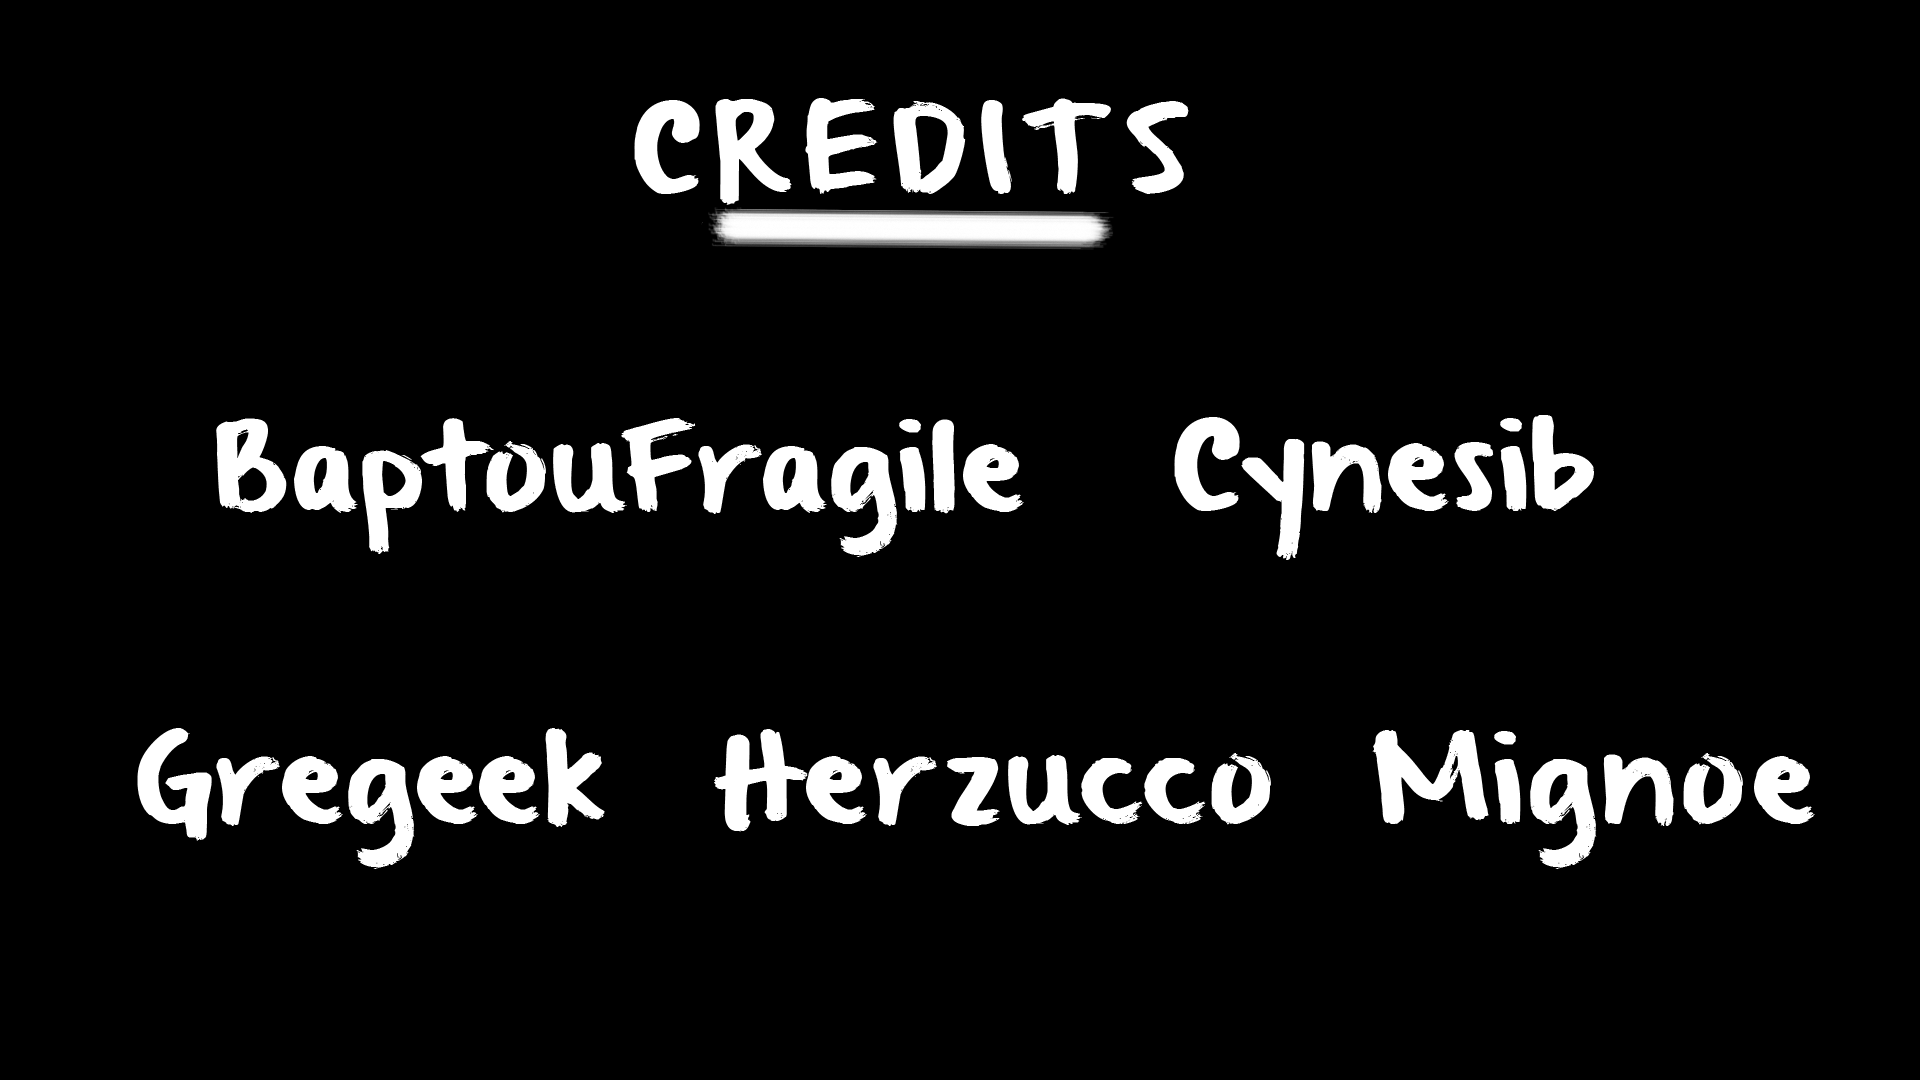
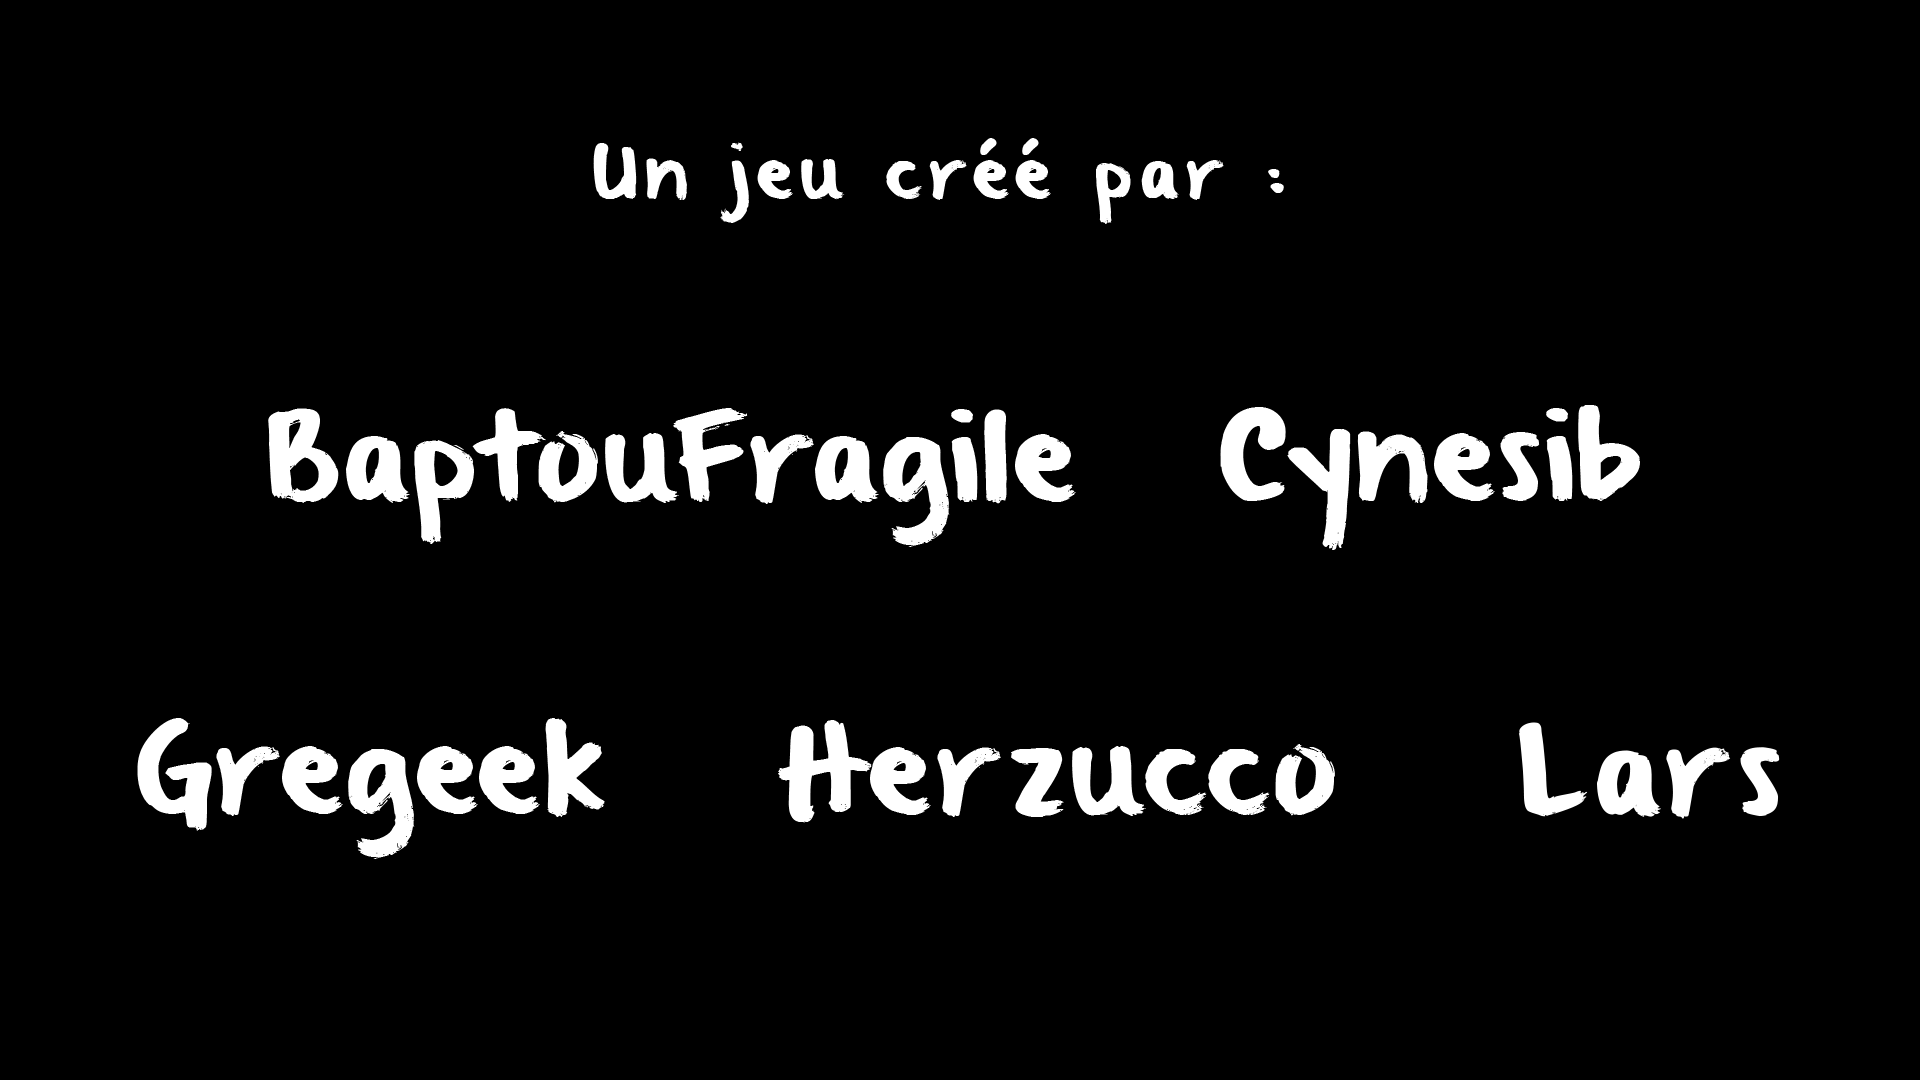
commit

diff --git a/front/src/layouts/credits.js b/front/src/layouts/credits.js
@@ -3,10 +3,23 @@ var Layout = require('./layout');
 function Credits(){
   Layout.call(this);
 
-  this.sprite = game.add.sprite(window.game.world.centerX, window.game.world.centerY, 'credits');
-  this.sprite.anchor.set(0.5, 0.5);
+  this.mode = 'saison';
+  this.count = 5;
+  this.currentCount = 0;
 
-  this.group.add(this.sprite);
+  this.saison = game.add.sprite(window.game.world.centerX, window.game.world.centerY, 'saison');
+  this.saison.anchor.set(0.5, 0.5);
+
+  this.credits = game.add.sprite(window.game.world.centerX, window.game.world.centerY, 'credits');
+  this.credits.anchor.set(0.5, 0.5);
+
+  this.cinqyou = game.add.sprite(window.game.world.centerX, window.game.world.centerY, 'cinqyou');
+  this.cinqyou.anchor.set(0.5, 0.5);
+
+  this.group.add(this.cinqyou);
+  this.group.add(this.credits);
+  this.group.add(this.saison);
+
   var that = this;
   window.game.events.on('credits', function(){
     that.enable();
@@ -17,6 +30,18 @@ Credits.prototype = Object.create(Layout.prototype);
 Credits.prototype.constructor = Credits;
 Credits.prototype.update = function CreditsUpdate(game){
   Layout.prototype.update.call(this, game);
+
+  this.currentCount += 1/60;
+  if(this.currentCount >= this.count){
+    this.currentCount = 0;
+    if(this.mode === 'saison'){
+      this.mode = 'credits';
+      this.saison.visible = false;
+    }else if(this.mode === 'credits'){
+      this.mode = 'cinqyou';
+      this.credits.visible = false;
+    }
+  }
 }
 
 module.exports = Credits;

diff --git a/front/src/preloading/textures.js b/front/src/preloading/textures.js
@@ -26,6 +26,8 @@ function textures(game) {
     game.load.image('non', 'assets/images/ui/non.png');
     game.load.image('splashScreen', 'assets/images/splash.png');
     game.load.image('credits', 'assets/images/credits.png');
+    game.load.image('saison', 'assets/images/saison1.png');
+    game.load.image('cinqyou', 'assets/images/Cinqyou.png');
 
     game.load.image('Hanouna', 'assets/images/slides/slide1.png');
     game.load.image('PT', 'assets/images/slides/slide2.png');
@@ -34,7 +36,7 @@ function textures(game) {
 
     game.load.image('bgDemo', 'assets/images/prod/bgDemo.png');
     game.load.image('factory', 'assets/images/factory.png');
-    game.load.image('test', 'assets/images/test.png');
+    game.load.image('bollotete', 'assets/images/bollotete.png');
 }
 
 module.exports = textures;

diff --git a/front/src/game.js b/front/src/game.js
@@ -1,7 +1,7 @@
 var EventEmitter = require('micro-events'); // require it
 
 function game(preload, create, loop){
-  var g = new window.Phaser.Game(1920, 1080, Phaser.AUTO, 'Bolloqués', { preload: preload.preload, create: function(){
+  var g = new window.Phaser.Game(1920, 1080, Phaser.AUTO, 'Bolloqués', { preload: preload.preload, create: function create(){
     preload.load();
     loadEmitter();
 

diff --git a/front/src/layouts/demoscene.js b/front/src/layouts/demoscene.js
@@ -20,7 +20,7 @@ function Demoscene(){
   music = game.add.audio('Generic');
 
   this.demoImages = [
-    'test',
+    'bollotete',
   ];
 
   this.currentSpawnCount = 2 * 1000;
